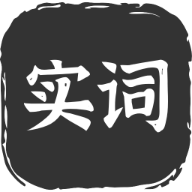
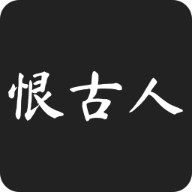
turn project to henguren_toolbox

Changed region(s): [[0.0, 0.0, 1.0, 1.0]]

diff --git a/index.html b/index.html
@@ -1,133 +1,107 @@
 <!DOCTYPE html>
-<html lang="zh">
+<html lang="zh-CN">
 <head>
-<meta charset="UTF-8">
-<meta name="viewport" content="width=device-width, initial-scale=1.0">
-<title>寻找实词</title>
-<style>
-    body {
-        font-family: "Microsoft Yahei UI", Arial, sans-serif;
-        margin: 0;
-        padding: 0;
-        display: flex;
-        justify-content: center;
-        align-items: center;
-        background-color: #f0f2f5;
-        flex-direction: column;
-        min-height: 100vh;
-    }
-    .container {
-        width: 100%;
-        max-width: 800px;
-        padding: 20px;
-        box-sizing: border-box;
-    }
-    h1 {
-        text-align: center;
-        color: #333;
-    }
-    label {
-        font-weight: bold;
-        color: #555;
-    }
-    textarea {
-        width: 100%;
-        min-height: 150px;
-        resize: none;
-        margin-bottom: 20px;
-        padding: 15px;
-        border: 1px solid #ccc;
-        border-radius: 5px;
-        box-sizing: border-box;
-        font-size: 16px;
-        font-family: "Microsoft Yahei UI", Arial, sans-serif;
-        overflow: hidden;
-    }
-    button {
-        display: block;
-        width: 100%;
-        padding: 15px;
-        border: none;
-        background-color: #5bcefa;
-        color: #fff;
-        border-radius: 5px;
-        cursor: pointer;
-        font-size: 18px;
-        font-weight: bold;
-    }
-    button:hover {
-        background-color: #4ab3d1;
-    }
-    #output {
-        width: 100%;
-        min-height: 100px;
-        border: 1px solid #ccc;
-        padding: 15px;
-        margin-bottom: 20px;
-        border-radius: 5px;
-        box-sizing: border-box;
-        white-space: pre-wrap;
-        overflow-wrap: break-word;
-        font-size: 16px;
-        font-family: "Microsoft Yahei UI", Arial, sans-serif;
-    }
-    .highlight {
-        color: #5bcefa;
-        font-weight: bold;
-    }
-    .highlighted-words {
-        color: #f6a8b8;
-        font-weight: bold;
-    }
-    footer {
-        text-align: center;
-        padding: 10px 0;
-    }
-</style>
+    <meta charset="UTF-8">
+    <meta name="viewport" content="width=device-width, initial-scale=1.0">
+    <title>恨古人工具箱</title>
+    <style>
+        body {
+            font-family: "Microsoft YaHei UI", Arial, sans-serif;
+            margin: 0;
+            padding: 0;
+            background-color: #f0f2f5;
+        }
+        .container {
+            max-width: 1200px;
+            margin: 20px auto;
+            padding: 20px;
+            background-color: #fff;
+            border-radius: 8px;
+            box-shadow: 0 0 10px rgba(0, 0, 0, 0.1);
+        }
+        h1 {
+            text-align: center;
+            color: #5bcefa;
+        }
+        p {
+            text-align: center;
+            color: #f6a8b8;
+        }
+        .toolbox {
+            list-style-type: none;
+            padding: 0;
+            display: flex;
+            flex-wrap: wrap;
+            justify-content: center;
+        }
+        .toolbox li {
+            margin: 10px;
+            padding: 20px;
+            border-radius: 8px;
+            box-shadow: 0 2px 4px rgba(0, 0, 0, 0.1);
+            transition: all 0.3s ease;
+            cursor: pointer;
+            background-color: #f9f9f9;
+            width: 200px; /* 固定宽度 */
+        }
+        .toolbox li:hover {
+            transform: scale(1.1);
+        }
+        .toolbox li a {
+            text-decoration: none;
+            color: #333;
+            display: block;
+        }
+        .toolbox li p {
+            color: #333;
+        }
+        .toolbox li a:hover {
+            color: #5bcefa;
+        }
+        .toolbox li p:hover {
+            color: #f6a8b8;
+        }
+        footer {
+            text-align: center;
+        }
+    </style>
 </head>
 <body>
-    <div class="container">
-        <h1>寻找实词</h1>
-        <label for="textInput">输入古文：</label><br>
-        <textarea id="textInput" placeholder="请输入一段古文" oninput="autoResize(this)" autofocus="true" onkeydown="handleKeyDown(event)"></textarea><br>
-        <button onclick="processText()">开始寻找（Ctrl+Enter）</button><br>
-        <label for="output">古文输出：</label><br>
-        <div id="output" contenteditable="false"></div><br>
-        <label for="highlightedWords">含有的实词：</label><br>
-        <textarea id="highlightedWords" class="highlighted-words" readonly></textarea><br>
-    </div>
+
+<div class="container">
+    <h1>恨古人工具箱</h1>
+    <p>不恨古人吾不见，恨古人不见吾狂耳</p>
+    <ul class="toolbox">
+        <li>
+            <a href="shici">
+                <h2>寻找实词</h2>
+                <p>根据上海中考的150个实词要求找寻古文中的实词</p>
+            </a>
+        </li>
+        <li>
+            <a href="#">
+                <h2>开发中……</h2>
+                <p>更多工具绝赞添加中</p>
+            </a>
+        </li>
+        <!-- 在此添加更多工具 -->
+    </ul>
     <footer>
-        &copy; 2024 <a style="text-decoration: none;color: #5bcefa;" href="https://www.lsc7.top" > 小方盒LSCube</a>
+        &copy; 2024 <a href="https://www.lsc7.top/" style="color: #5bcefa;text-decoration: none;">小方盒LSCube</a>
+        <p id="hitokoto">
+            <a href="#" style="color: #f6a8b8;text-decoration: none;" id="hitokoto_text">:D 获取中...</a>
+          </p>
+          <script>
+            fetch('https://v1.hitokoto.cn')
+              .then(response => response.json())
+              .then(data => {
+                const hitokoto = document.querySelector('#hitokoto_text')
+                hitokoto.href = `https://hitokoto.cn/?uuid=${data.uuid}`
+                hitokoto.innerText = data.hitokoto
+              })
+              .catch(console.error)
+          </script>
     </footer>
-
-
-    <script>
-        function autoResize(textarea) {
-            textarea.style.height = 'auto';
-            textarea.style.height = textarea.scrollHeight + 'px';
-        }
-        function processText() {
-            var inputText = document.getElementById("textInput").value;
-            var outputDiv = document.getElementById("output");
-            var highlightedWordsTextArea = document.getElementById("highlightedWords");
-
-            var wordList = ["比", "鄙", "兵", "病", "乘", "持", "从", "达", "当", "道", "得", "尔", "伐", "犯", "方", "负", "赋", "更", "苟", "故", "顾", "观", "归", "过", "好", "号", "还", "会", "惠", "及", "极", "计", "济", "假", "间", "简", "见", "竭", "尽", "进", "居", "举", "具", "俱", "聚", "遽", "决", "绝", "类", "临", "虑", "论", "漫", "明", "名", "命", "难", "平", "戚", "强", "窃", "请", "穷", "求", "取", "去", "全", "任", "入", "若", "善", "少", "舍", "涉", "生", "胜", "师", "施", "实", "食", "使", "释", "市", "恃", "数", "属", "说", "素", "汤", "徒", "亡", "为", "委", "务", "鲜", "向", "效", "谢", "信", "行", "形", "兴", "修", "徐", "许", "寻", "业", "遗", "贻", "夷", "异", "易", "诣", "益", "阴", "引", "盈", "余", "狱", "御", "缘", "远", "云", "章", "知", "止", "志", "致", "质", "专", "走", "足", "卒", "作", "坐", "卑鄙", "布衣", "菲薄", "其实", "亲戚", "驱驰", "无论", "牺牲", "鸿儒", "白丁", "阡陌", "交通", "问津", "绝境", "妻子"];
-
-            outputDiv.innerHTML = inputText.replace(new RegExp('(' + wordList.join('|') + ')', 'g'), '<span class="highlight">$1</span>');
-
-            var highlightedWords = [];
-            wordList.forEach(function(word) {
-                if (inputText.indexOf(word) !== -1) {
-                    highlightedWords.push(word);
-                }
-            });
-            highlightedWordsTextArea.value = highlightedWords.join(' ');
-        }
-        function handleKeyDown(event) {
-        if (event.ctrlKey && event.keyCode === 13) {
-            processText();
-        }
-    }
-    </script>
+</div>
 </body>
 </html>

diff --git a/shici/index.html b/shici/index.html
@@ -1,0 +1,133 @@
+<!DOCTYPE html>
+<html lang="zh-CN">
+<head>
+<meta charset="UTF-8">
+<meta name="viewport" content="width=device-width, initial-scale=1.0">
+<title>寻找实词</title>
+<style>
+    body {
+        font-family: "Microsoft Yahei UI", Arial, sans-serif;
+        margin: 0;
+        padding: 0;
+        display: flex;
+        justify-content: center;
+        align-items: center;
+        background-color: #f0f2f5;
+        flex-direction: column;
+        min-height: 100vh;
+    }
+    .container {
+        width: 100%;
+        max-width: 800px;
+        padding: 20px;
+        box-sizing: border-box;
+    }
+    h1 {
+        text-align: center;
+        color: #333;
+    }
+    label {
+        font-weight: bold;
+        color: #555;
+    }
+    textarea {
+        width: 100%;
+        min-height: 150px;
+        resize: none;
+        margin-bottom: 20px;
+        padding: 15px;
+        border: 1px solid #ccc;
+        border-radius: 5px;
+        box-sizing: border-box;
+        font-size: 16px;
+        font-family: "Microsoft Yahei UI", Arial, sans-serif;
+        overflow: hidden;
+    }
+    button {
+        display: block;
+        width: 100%;
+        padding: 15px;
+        border: none;
+        background-color: #5bcefa;
+        color: #fff;
+        border-radius: 5px;
+        cursor: pointer;
+        font-size: 18px;
+        font-weight: bold;
+    }
+    button:hover {
+        background-color: #4ab3d1;
+    }
+    #output {
+        width: 100%;
+        min-height: 100px;
+        border: 1px solid #ccc;
+        padding: 15px;
+        margin-bottom: 20px;
+        border-radius: 5px;
+        box-sizing: border-box;
+        white-space: pre-wrap;
+        overflow-wrap: break-word;
+        font-size: 16px;
+        font-family: "Microsoft Yahei UI", Arial, sans-serif;
+    }
+    .highlight {
+        color: #5bcefa;
+        font-weight: bold;
+    }
+    .highlighted-words {
+        color: #f6a8b8;
+        font-weight: bold;
+    }
+    footer {
+        text-align: center;
+        padding: 10px 0;
+    }
+</style>
+</head>
+<body>
+    <div class="container">
+        <h1>寻找实词</h1>
+        <label for="textInput">输入古文：</label><br>
+        <textarea id="textInput" placeholder="请输入一段古文" oninput="autoResize(this)" autofocus="true" onkeydown="handleKeyDown(event)"></textarea><br>
+        <button onclick="processText()">开始寻找（Ctrl+Enter）</button><br>
+        <label for="output">古文输出：</label><br>
+        <div id="output" contenteditable="false"></div><br>
+        <label for="highlightedWords">含有的实词：</label><br>
+        <textarea id="highlightedWords" class="highlighted-words" readonly></textarea><br>
+    </div>
+    <footer>
+        &copy; 2024 <a style="text-decoration: none;color: #5bcefa;" href="https://www.lsc7.top" > 小方盒LSCube</a>
+    </footer>
+
+
+    <script>
+        function autoResize(textarea) {
+            textarea.style.height = 'auto';
+            textarea.style.height = textarea.scrollHeight + 'px';
+        }
+        function processText() {
+            var inputText = document.getElementById("textInput").value;
+            var outputDiv = document.getElementById("output");
+            var highlightedWordsTextArea = document.getElementById("highlightedWords");
+
+            var wordList = ["比", "鄙", "兵", "病", "乘", "持", "从", "达", "当", "道", "得", "尔", "伐", "犯", "方", "负", "赋", "更", "苟", "故", "顾", "观", "归", "过", "好", "号", "还", "会", "惠", "及", "极", "计", "济", "假", "间", "简", "见", "竭", "尽", "进", "居", "举", "具", "俱", "聚", "遽", "决", "绝", "类", "临", "虑", "论", "漫", "明", "名", "命", "难", "平", "戚", "强", "窃", "请", "穷", "求", "取", "去", "全", "任", "入", "若", "善", "少", "舍", "涉", "生", "胜", "师", "施", "实", "食", "使", "释", "市", "恃", "数", "属", "说", "素", "汤", "徒", "亡", "为", "委", "务", "鲜", "向", "效", "谢", "信", "行", "形", "兴", "修", "徐", "许", "寻", "业", "遗", "贻", "夷", "异", "易", "诣", "益", "阴", "引", "盈", "余", "狱", "御", "缘", "远", "云", "章", "知", "止", "志", "致", "质", "专", "走", "足", "卒", "作", "坐", "卑鄙", "布衣", "菲薄", "其实", "亲戚", "驱驰", "无论", "牺牲", "鸿儒", "白丁", "阡陌", "交通", "问津", "绝境", "妻子"];
+
+            outputDiv.innerHTML = inputText.replace(new RegExp('(' + wordList.join('|') + ')', 'g'), '<span class="highlight">$1</span>');
+
+            var highlightedWords = [];
+            wordList.forEach(function(word) {
+                if (inputText.indexOf(word) !== -1) {
+                    highlightedWords.push(word);
+                }
+            });
+            highlightedWordsTextArea.value = highlightedWords.join(' ');
+        }
+        function handleKeyDown(event) {
+        if (event.ctrlKey && event.keyCode === 13) {
+            processText();
+        }
+    }
+    </script>
+</body>
+</html>
